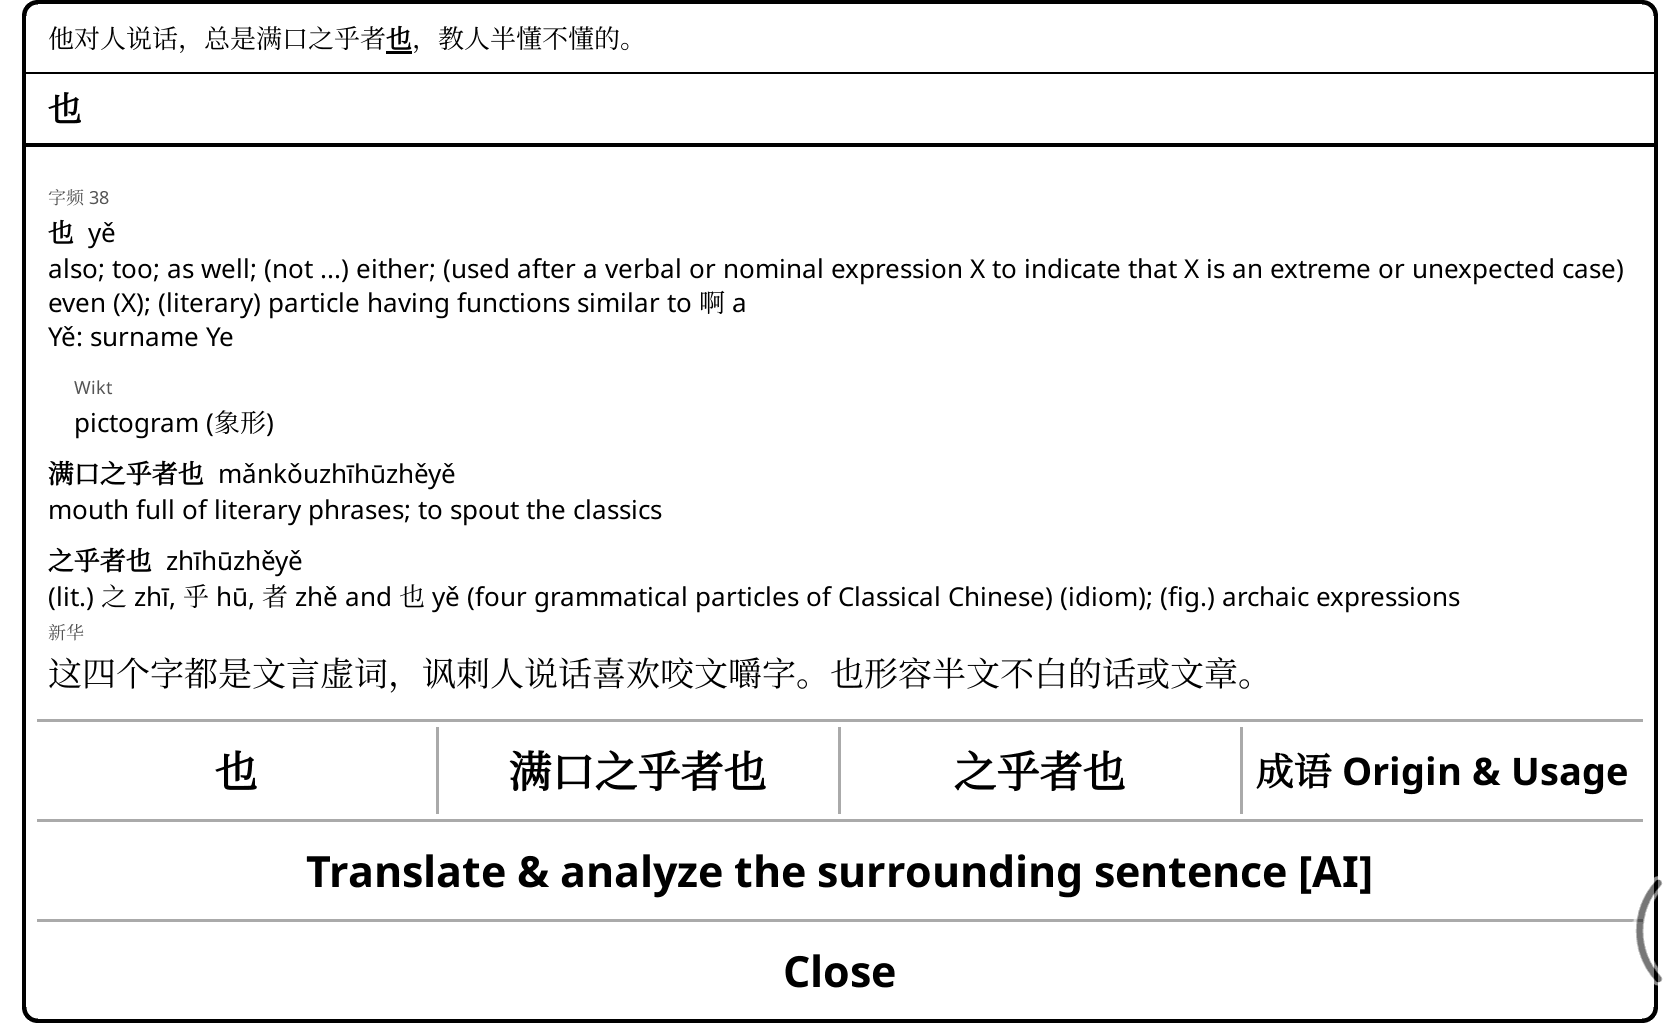
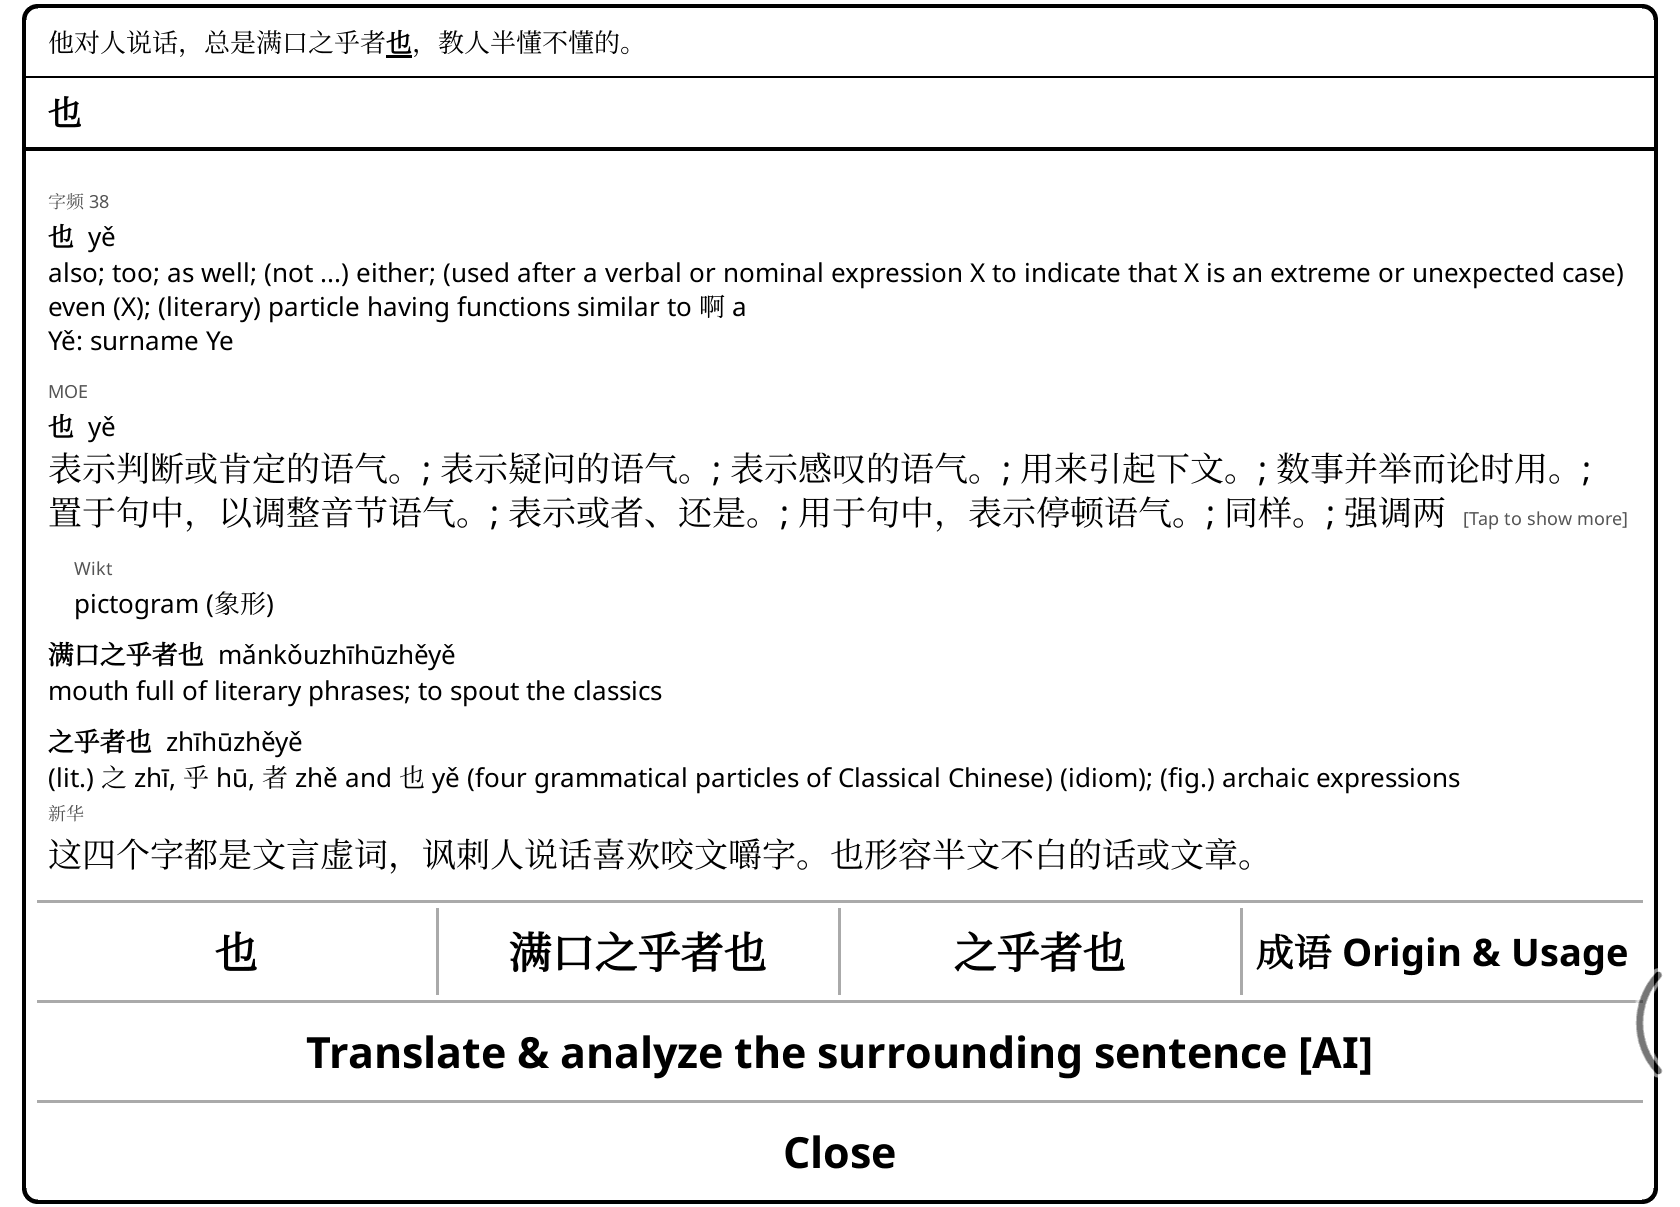
README shots retaken with MOE Always (2.5.2 defaults, rebuilt MOE file) (#19)
Taller popups: crops re-measured to the popup borders, the nested 欢 tap is
(1322, 872), Origin & Usage (1440, 980), KOAssistant's Translate (840, 920).
Alt texts name the MOE blocks; 观 and 也 show a collapsed one.

Changed region(s): [[0.0, 0.0, 0.9905, 1.0]]

diff --git a/tools/make_screenshots.py b/tools/make_screenshots.py
@@ -101,30 +101,30 @@ SHOTS = {
     "main": dict(page="sg1", taps=[("密", 1, (172, 1150), [
         "**密**  mì", "[MOE] Always\n  **密**  mì", "**宓** mì  still; silent  → sound (same sound)", "**山** shān  mountain  → meaning",
         "[Wikt]", "**不密**  bùmì", "(literary) not well thought out; (literary) not secret"])],
-        frames=[(1, (95, 1185))]),
+        frames=[(1, (117, 1185))]),
     "context": dict(page="kyj14", taps=[("间", 1, (773, 500), [
         "**间**  jiàn · likely here", "[MOE] Always\n  **间**  jiàn", "**间或**  jiànhuò · decides 间's reading"])],
-        frames=[(1, (188, 1076))]),
+        frames=[(1, (95, 1167))]),
     "components": dict(page="kyj13", taps=[("茴", 1, (988, 790), [
         "**茴**  huí", "[MOE] Always\n  **茴**  huí", "**艹** cǎo  grass; plant (草字头)  → meaning",
         "**回** huí  to go back; to return  → sound (same sound)", "**茴香豆**  huíxiāngdòu"])],
-        frames=[(1, (178, 1085))]),
+        frames=[(1, (108, 1155))]),
     "traditional": dict(page="aq59", taps=[("观", 1, (170, 965), [
         "**观**  guān · likely here", "[MOE] Always\n  **观**  guān", "traditional 觀:", "**雚** guàn", "→ sound (same sound)",
         "simplified: 雚 → 又", "**观音**  Guānyīn · decides 观's reading"])],
-        frames=[(1, (154, 1110))]),
+        frames=[(1, (61, 1201))]),
     "chengyu": dict(page="kyj13", taps=[("也", 3, (170, 590), [
-        "[MOE] Always\n  **也**  yě", "**之乎者也**  zhīhūzhěyě", "[新华] 这四个字都是文言虚词"]), ("出处", None, (1440, 862), [])],
-        frames=[(1, (120, 1143)), (2, (20, 700))]),
+        "[MOE] Always\n  **也**  yě", "**之乎者也**  zhīhūzhěyě", "[新华] 这四个字都是文言虚词"]), ("出处", None, (1440, 980), [])],
+        frames=[(1, (28, 1235)), (2, (20, 700))]),
     "labels": dict(page="sg1", taps=[("秋", 1, (775, 665), [
         "**秋**  qiū", "[MOE] Always\n  **秋**  qiū", "[MMAH]", "  [MOE]\n  **秋月春风**", "**秋月春风**  qiū yuè chūn fēng", "[Wikt]", "**秋月**  qiūyuè"])],
-        frames=[(1, (97, 1167))]),
+        frames=[(1, (18, 1245))]),
     # A character of the popup's own text: 欢, inside MOE's quotation of 〈琵琶行〉,
     # opens its popup on top; the context line is the quotation (the device's
     # log must give it as the sentence), the 欢 below underlined.
     "nested": dict(page="sg1", taps=[("秋", 1, (775, 665), ["[MOE] Always\n  **秋**  qiū", "  [MOE]\n  **秋月春风**  qiū yuè chūn fēng"]),
-                                     ("欢", "nested", (1322, 772), ["「今年欢笑复明年，秋月春风等闲度。」"])],
-                   frames=[(2, (97, 1167))]),
+                                     ("欢", "nested", (1322, 872), ["「今年欢笑复明年，秋月春风等闲度。」"])],
+                   frames=[(2, (18, 1245))]),
     "translate": dict(page="kyj13", taps=[("窃", 1, (1465, 995), ["**窃**  qiè", "[MOE] Always\n  **窃**  qiè"])],
         frames=[(1, (15, 1160))]),
     # The same popup, then its Translate & Analyze button (at `koassistant`):
@@ -136,7 +136,7 @@ SHOTS = {
     # image whose README alt text describes one particular answer. Take it by
     # name, look at it, and rewrite the alt text to match.
     "translate-result": dict(page="kyj13", taps=[("窃", 1, (1465, 995), ["**窃**  qiè"])],
-        koassistant=(840, 847), koassistant_end=(1245, 1195)),
+        koassistant=(840, 920), koassistant_end=(1245, 1195)),
     # Page 1 with pinyin off, then on: the plugin adds line space where it
     # draws pinyin (69 pages instead of 74), so each crop ends after the same
     # line of text (下。后来光武中兴…), the one with pinyin taller.

diff --git a/README.md b/README.md
@@ -11,23 +11,23 @@ the reading the character takes in this context: 行 is *háng* in 银行 but *x
 cutoff you choose: the hard ones get help and the rest of the page stays clean. It works on any
 reflowable book (EPUB, FB2, MOBI, TXT and the like) as soon as you open it.
 
-![The opening of 三国演义 第一回 on a Boox Go 7: the chapter title, then the popup on 密. At its top, the line 时有宦官曹节等弄权，窦武、陈蕃谋诛之，作事不密，反为所害，中涓自此愈横。 with 密 in bold and underlined; then 字频 646 in small grey, 密 mì, "dense; close; … (bound form) secret; confidential …", "Mì: surname Mi"; its parts, labelled Wikt: 宓 mì still; silent → sound (same sound), 山 shān mountain → meaning; then 不密 bùmì "(literary) not well thought out; (literary) not secret", labelled Wikt; buttons 密 and 不密, then Translate & analyze the surrounding sentence [AI] on its own row, then Close at the bottom. Below the popup, the last lines of the 话说天下大势 paragraph, with juān above 涓 and 密 underlined on the page](docs/main.png)
+![The opening of 三国演义 第一回 on a Boox Go 7: the chapter title, then the popup on 密. At its top, the line 时有宦官曹节等弄权，窦武、陈蕃谋诛之，作事不密，反为所害，中涓自此愈横。 with 密 in bold and underlined; then 字频 646 in small grey, 密 mì, "dense; close; … (bound form) secret; confidential …", "Mì: surname Mi"; MOE's entry for 密 mì in larger Chinese type, labelled MOE: 不稀疏的。; 不宣露的。; …; 暗中。; its parts, labelled Wikt: 宓 mì still; silent → sound (same sound), 山 shān mountain → meaning; then 不密 bùmì "(literary) not well thought out; (literary) not secret", labelled Wikt; buttons 密 and 不密, then Translate & analyze the surrounding sentence [AI] on its own row, then Close at the bottom. Below the popup, the end of the paragraph's last line, 密，反为所害，中涓自此愈横。, with 密 underlined on the page](docs/main.png)
 
 <table>
 <tr>
 <td width="50%"><img src="docs/off-on.png" alt="The 临江仙 that opens 三国演义, pinyin off (top) and on (bottom): with it on, only 樵 qiáo and 渚 zhǔ get pinyin, the rest of the page stays clean"><br><a href="#usage"><b>Pinyin only above the hard characters</b></a>, at the level you choose (here the default: outside the 3,500 most common)</td>
-<td width="50%"><img src="docs/context.png" alt="Popup for 间 in 孔乙己's 虽然间或没有现钱: at the top the line 但他在我们店里，品行却比别人都好，就是从不拖欠；虽然间或没有现钱，… with 间 marked; 字频 113, then 间 jiàn · likely here, jiān listed after it; 间或 jiànhuò · decides 间's reading, occasionally; now and then"><br><a href="#the-popup"><b>The reading it has here</b></a>, and the word that decides it: 间 is <i>jiàn</i> in 间或</td>
+<td width="50%"><img src="docs/context.png" alt="Popup for 间 in 孔乙己's 虽然间或没有现钱: at the top the line 但他在我们店里，品行却比别人都好，就是从不拖欠；虽然间或没有现钱，… with 间 marked; 字频 113, then 间 jiàn · likely here, jiān listed after it; MOE's entry for 间 in Chinese, jiàn then jiān; its parts 门 and 日 labelled MMAH; 间或 jiànhuò · decides 间's reading, occasionally; now and then"><br><a href="#the-popup"><b>The reading it has here</b></a>, and the word that decides it: 间 is <i>jiàn</i> in 间或</td>
 </tr>
 <tr>
-<td><img src="docs/components.png" alt="Popup for 茴 in 孔乙己's 要一碟茴香豆: at the top the line 他不回答，对柜里说：“温两碗酒，要一碟茴香豆。” with 茴 marked; 字频 4,633, then 茴 huí; its parts, labelled Wikt: 艹 cǎo grass; plant (草字头) → meaning, 回 huí to go back → sound (same sound); then 茴香豆 and 茴香"><br><a href="#character-components"><b>What each character is made of</b></a>: 茴 is 艹 for the meaning and 回 <i>huí</i> for the sound</td>
-<td><img src="docs/traditional.png" alt="Popup for 观 in 阿Q正传's 观音娘娘: at the top the line …而且又不见了观音娘娘座前的一个宣德炉。 with 观 marked; 字频 407, then 观 guān · likely here; traditional 觀: 雚 guàn (archaic) stork; heron → sound (same sound), 見 jiàn see → meaning, simplified: 雚 → 又; 观音 Guānyīn · decides 观's reading"><br><a href="#character-components"><b>Parts the simplification hid</b></a>: 观 is read through 觀, 雚 <i>guàn</i> → sound</td>
+<td><img src="docs/components.png" alt="Popup for 茴 in 孔乙己's 要一碟茴香豆: at the top the line 他不回答，对柜里说：“温两碗酒，要一碟茴香豆。” with 茴 marked; 字频 4,633, then 茴 huí; MOE's 茴 huí 参见「茴香」条。; its parts, labelled Wikt: 艹 cǎo grass; plant (草字头) → meaning, 回 huí to go back → sound (same sound); then 茴香豆 and 茴香"><br><a href="#character-components"><b>What each character is made of</b></a>: 茴 is 艹 for the meaning and 回 <i>huí</i> for the sound</td>
+<td><img src="docs/traditional.png" alt="Popup for 观 in 阿Q正传's 观音娘娘: at the top the line …而且又不见了观音娘娘座前的一个宣德炉。 with 观 marked; 字频 407, then 观 guān · likely here; MOE's entry for 观, cut to two lines and ending in a small grey [Tap to show more]; traditional 觀: 雚 guàn (archaic) stork; heron → sound (same sound), 見 jiàn see → meaning, simplified: 雚 → 又; 观音 Guānyīn · decides 观's reading"><br><a href="#character-components"><b>Parts the simplification hid</b></a>: 观 is read through 觀, 雚 <i>guàn</i> → sound</td>
 </tr>
 <tr>
-<td><img src="docs/chengyu.png" alt="Popup for 也 in 孔乙己's 满口之乎者也: at the top the line 他对人说话，总是满口之乎者也，教人半懂不懂的。 with 也 marked; then 字频 38, 也 yě, its Wikt line pictogram (象形), 满口之乎者也 and 之乎者也 from CC-CEDICT, 之乎者也 with a Chinese line labelled 新华: 这四个字都是文言虚词，讽刺人说话喜欢咬文嚼字。也形容半文不白的话或文章。; a 成语 Origin &amp; Usage button"><br><a href="#chengyu"><b>Chengyu explained</b></a>: 之乎者也 with Xinhua's line (optional file) …</td>
+<td><img src="docs/chengyu.png" alt="Popup for 也 in 孔乙己's 满口之乎者也: at the top the line 他对人说话，总是满口之乎者也，教人半懂不懂的。 with 也 marked; then 字频 38, 也 yě; MOE's entry for 也 in larger type, cut to two lines and ending in a small grey [Tap to show more]; its Wikt line pictogram (象形), 满口之乎者也 and 之乎者也 from CC-CEDICT, 之乎者也 with a Chinese line labelled 新华: 这四个字都是文言虚词，讽刺人说话喜欢咬文嚼字。也形容半文不白的话或文章。; a 成语 Origin &amp; Usage button"><br><a href="#chengyu"><b>Chengyu explained</b></a>: 之乎者也 with Xinhua's line (optional file) …</td>
 <td><img src="docs/chengyu-2.png" alt="The Origin &amp; Usage view for 之乎者也 from 新华成语: 释义; 出处 宋·文莹《湘山野录》：“之乎者也，助得甚事？”; 例句 他对人说话，总是满口之乎者也，叫人半懂不懂的。"><br>… and its <a href="#chengyu"><b>Origin &amp; Usage</b></a> view: the classical source and an example from this same passage of 孔乙己</td>
 </tr>
 <tr>
-<td><img src="docs/labels.png" alt="Popup for 秋 in the 临江仙's 惯看秋月春风: at the top the line 白发渔樵江渚上，惯看秋月春风。 with 秋 marked; 字频 1,442, then 秋 qiū from CC-CEDICT; its parts 禾 and 火 labelled MMAH; 秋月 labelled Wikt; last, 秋月春风 labelled MOE with its Chinese definition in larger type; a 成语 Origin &amp; Usage button"><br><a href="#fallback-dictionaries"><b>Several dictionaries, each labelled</b></a>: CC-CEDICT, Wiktionary for 秋月, and last, in larger type, MOE (optional) for 秋月春风</td>
+<td><img src="docs/labels.png" alt="Popup for 秋 in the 临江仙's 惯看秋月春风: at the top the line 白发渔樵江渚上，惯看秋月春风。 with 秋 marked; 字频 1,442, then 秋 qiū from CC-CEDICT; MOE's entry for 秋 in larger type; its parts 禾 and 火 labelled MMAH; 秋月 labelled Wikt; last, 秋月春风 labelled MOE with its Chinese definition in larger type, its second line cut off where the popup scrolls; a 成语 Origin &amp; Usage button"><br><a href="#fallback-dictionaries"><b>Several dictionaries, each labelled</b></a>: CC-CEDICT, then MOE (optional) for 秋 in larger type, Wiktionary for 秋月, and last MOE for 秋月春风</td>
 <td><img src="docs/translate-result.png" alt="KOAssistant's Translate &amp; Analyze viewer, titled with the model gemini-3.5-flash-lite, its whole reply shown as its two pages, joined by a dashed line. Highlighted text: 孔乙己便涨红了脸，额上的青筋条条绽出，争辩道：“窃书不能算偷……窃书！ Translation: Kong Yiji immediately blushed, the veins on his forehead bulging out in cords, and argued, &quot;Book-stealing cannot be considered theft... Book-stealing!&quot; Analysis, one chunk per line: 涨红了脸 (zhǎng hóng le liǎn) &quot;swelled/flushed red [his] face&quot;, resultative compound; 额上的 (é shàng de) &quot;of the forehead's&quot;; 青筋 (qīng jīn) &quot;blue/green tendons/veins&quot;; 条条 (tiáo tiáo) &quot;strip by strip / cord by cord&quot;, reduplicated measure word; 绽出 (zhàn chū) &quot;burst/bulge out&quot;; 争辩道 (zhēng biàn dào) &quot;argued and said&quot;, verb + quotative marker 道; 窃书 (qiè shū) &quot;stealing books&quot;, classical/literary compound (窃 qiè meaning to steal covertly) used by Kong Yiji to euphemize and intellectualize his act; 不能算 (bù néng suàn) &quot;cannot be counted/considered&quot;; 偷 (tōu) &quot;steal&quot;, colloquial term for theft, contrasted sharply with the literary qiè. Below, the viewer's buttons: Reply, Copy, Save to Note, Notebook, Pin, Close and others"><br><a href="#translating-the-sentence"><b>Translate &amp; Analyze the sentence</b></a> with KOAssistant: a translation and a chunk-by-chunk breakdown of 孔乙己's 窃书不能算偷, down to why he says 窃 and not 偷 (your own AI provider, while Wi-Fi is on)</td>
 </tr>
 </table>
@@ -236,7 +236,7 @@ font chosen in KOReader's font menu, not a font the book embeds or sets in its C
 that font lacks comes from KOReader's usual fallback fonts. For a PDF, or when the font cannot be
 loaded, the popup uses the UI font. Turned off, the popup is exactly as before.
 
-![A tall popup for 观 in 阿Q正传: at the top the line 尼姑待他们走后，定了神来检点，龙牌固然已经碎在地上了，而且又不见了观音娘娘座前的一个宣德炉。 with 观 in bold and underlined, then 字频 407 and 观 guān · likely here, its traditional form 觀's parts, and 观音 Guānyīn · decides 观's reading](docs/traditional.png)
+![A tall popup for 观 in 阿Q正传: at the top the line 尼姑待他们走后，定了神来检点，龙牌固然已经碎在地上了，而且又不见了观音娘娘座前的一个宣德炉。 with 观 in bold and underlined, then 字频 407 and 观 guān · likely here, MOE's entry for 观 collapsed to two lines with [Tap to show more], its traditional form 觀's parts, and 观音 Guānyīn · decides 观's reading](docs/traditional.png)
 
 ### Tapping a character in the popup
 
@@ -247,7 +247,7 @@ around it in that text that contains it), and stays underlined in the popup belo
 one is open. Nothing else in the popup is tappable: not the headlines (the character or word
 the entry is for), the components, or the English glosses.
 
-![Popup for 秋 in the 临江仙, and on top of it the popup for 欢, tapped in MOE's quotation of 〈琵琶行〉: its line at the top is 「今年欢笑复明年，秋月春风等闲度。」 with 欢 marked, then 字频 443, 欢 huān, its traditional form 歡's parts, 欢笑 huānxiào, and the buttons 欢 and 欢笑, then Close at the bottom (no Translate in a popup opened from a popup)](docs/nested.png)
+![Popup for 秋 in the 临江仙, and on top of it the popup for 欢, tapped in MOE's quotation of 〈琵琶行〉: its line at the top is 「今年欢笑复明年，秋月春风等闲度。」 with 欢 marked, then 字频 443, 欢 huān, MOE's entry for 欢, its traditional form 歡's parts, 欢笑 huānxiào, and the buttons 欢 and 欢笑, then Close at the bottom (no Translate in a popup opened from a popup)](docs/nested.png)
 
 - **Its text is the popup's, not the book's.** The line at the top is the sentence around the
   character in the popup text: cut at 。！？；, a line break, or a closing quote after one of
@@ -353,7 +353,7 @@ While Wi-Fi is on and connected, the popup from the page has one more button on 
 own (popups opened from a popup's text do not). It closes the
 popup and sends **the whole sentence containing the tapped character**:
 
-![Popup for 窃 at the top of the page, its line 孔乙己便涨红了脸，额上的青筋条条绽出，争辩道：“窃书不能算偷……窃书！ with 窃 marked; 字频 2,026, 窃 qiè to steal; secretly; (humble) I, its parts 穴 xué and 切 qiè labelled MMAH, then a 窃 button, Translate & analyze the surrounding sentence [AI] and Close; below it the page of 孔乙己, 窃 underlined in the line 窃书不能算偷……窃书！……读书人的事，能算偷么？](docs/translate.png)
+![Popup for 窃 at the top of the page, its line 孔乙己便涨红了脸，额上的青筋条条绽出，争辩道：“窃书不能算偷……窃书！ with 窃 marked; 字频 2,026, 窃 qiè to steal; secretly; (humble) I, MOE's entry for 窃 (盗取、偷。; 私下。…; 偷偷的。 and 「竊」的异体字。) labelled MOE, its parts 穴 xué and 切 qiè labelled MMAH, then a 窃 button, Translate & analyze the surrounding sentence [AI] and Close; above and below it the page of 孔乙己, the popup covering 窃's own line](docs/translate.png)
 
 - **With [KOAssistant](https://github.com/zeeyado/koassistant.koplugin) installed** (tested with
   0.23.0; the button uses its internals, so a later version may fall back to the built-in
